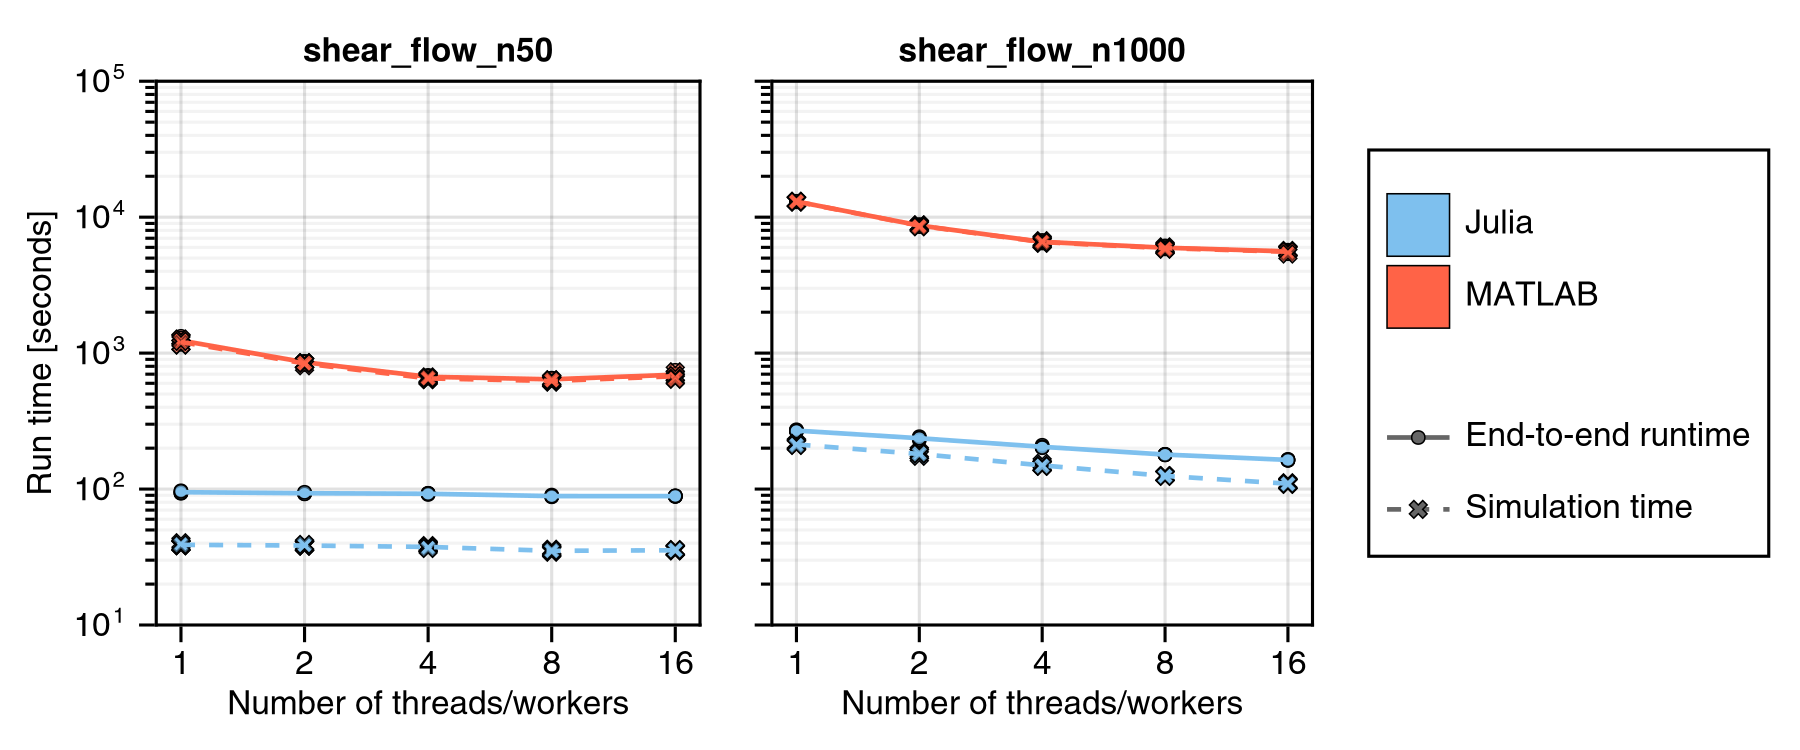
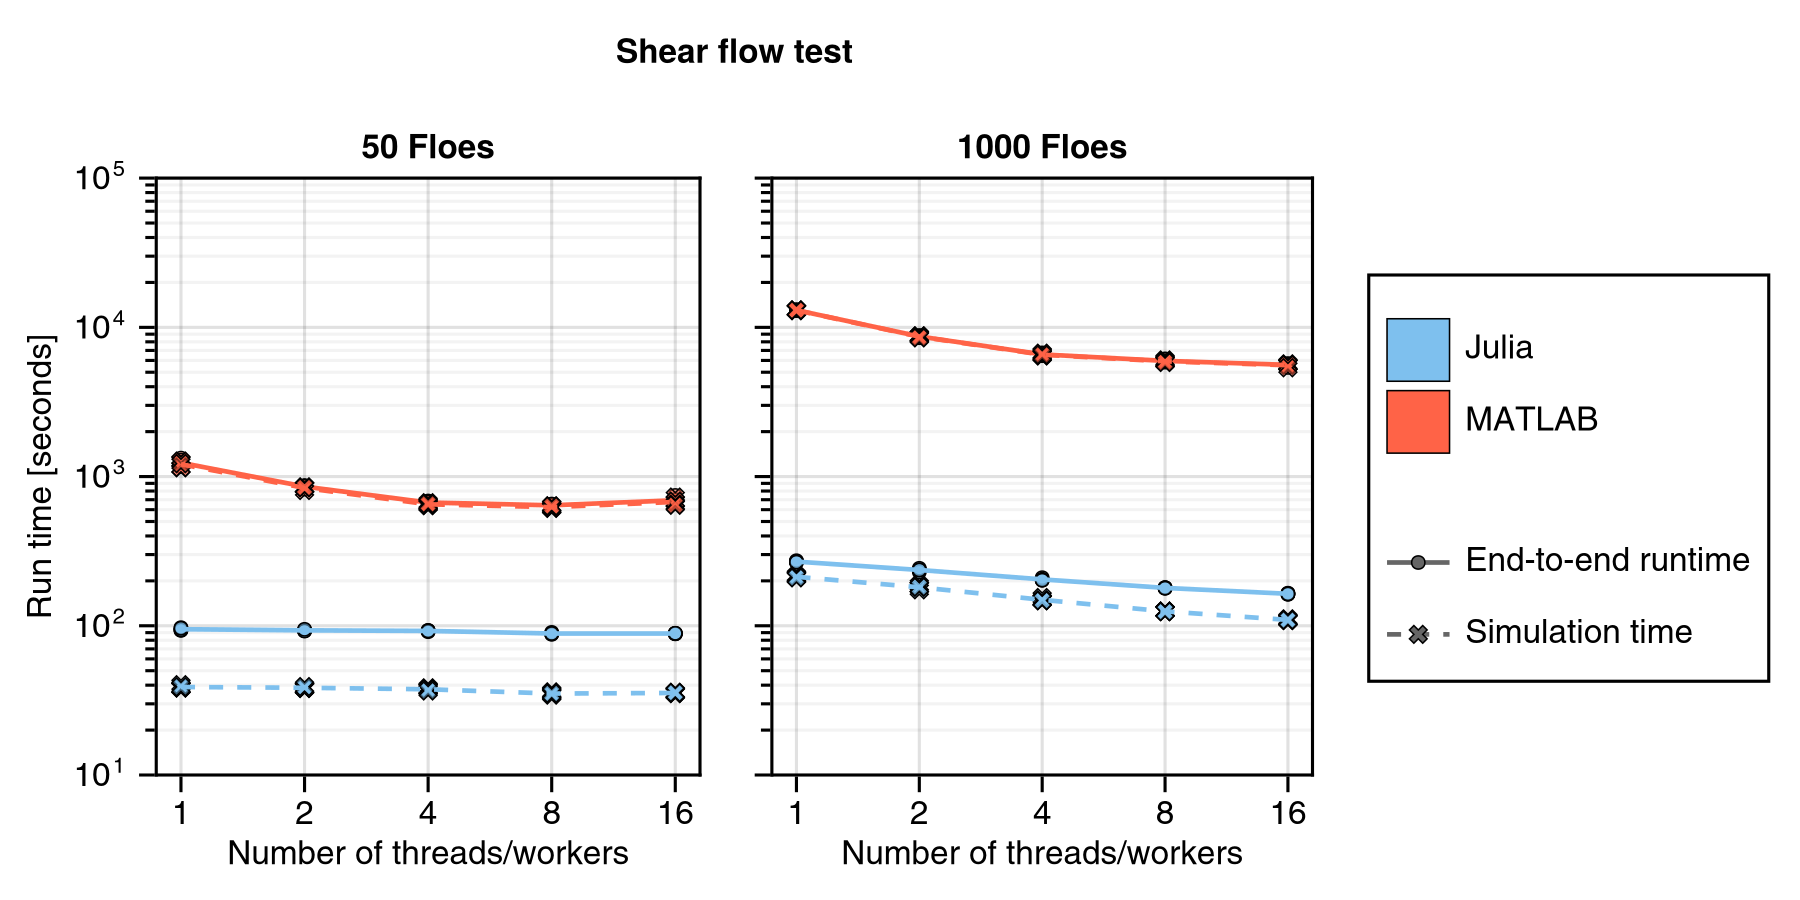
Update with Sam's comments

diff --git a/joss_paper/paper.md b/joss_paper/paper.md
@@ -78,8 +78,7 @@ Results in \autoref{fig:speed_comparison} show comparisons of both end-to-end ru
 \end{figure}
 
 
-Subzero.jl achieves substantial speedups relative to the MATLAB implementation: 7.2-13.0 times faster (end-to-end) and 17.4-31.1 times faster (simulation) for 50 floes, increasing to 32.2-48.5× (end-to-end) and 43.9-61.1 times (simulation) for 1000 floes.
-Parallel scaling is modest in both implementations, with simulation time speedups of 1.1 times (Julia) and 1.8 times (MATLAB) for 50 floes, and 1.9 times (Julia) and 2.3 times (MATLAB) for 1000 floes when increasing from 1 to 16 cores. The speed increase of Subzero.jl relative to the original MATLAB model will enable longer and more complex simulations, particularly at higher floe counts.
+Subzero.jl achieves substantial speedups relative to the MATLAB implementation: 7.2-13.0 times faster (end-to-end) and 17.4-31.1 times faster (simulation) for 50 floes, increasing to 32.2-48.5 times (end-to-end) and 43.9-61.1 times (simulation) for 1000 floes. Parallel scaling is modest in both implementations, with simulation time speedups of 1.1 times (Julia) and 1.8 times (MATLAB) for 50 floes, and 1.9 times (Julia) and 2.3 times (MATLAB) for 1000 floes when increasing from 1 to 16 cores. The speed increase of Subzero.jl relative to the original MATLAB model will enable longer and more complex simulations, particularly at higher floe counts.
 
 
 # Acknowledgements
